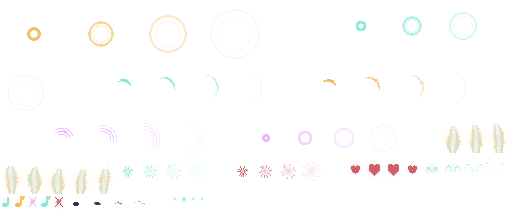
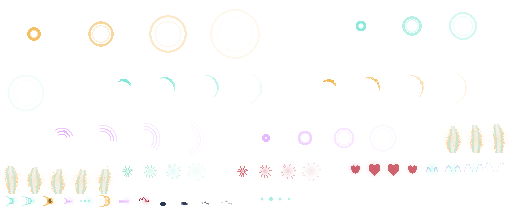
Geschosse sind Schwingung, keine Notenschrift
Ein Notenkopf mit Hals ist ein Schriftzeichen - er fliegt durchs Bild
wie aus einem Lehrbuch gefallen. Was jetzt fliegt, ist ein Stoss
Klang: ein heller Kern und hinter ihm die Wellenfronten, die er durch
die Luft schiebt. Jeder Kern schiebt anders: die Stimmgabel einen
Doppelpuls, die Leier drei feine Fronten, die Trommel eine Druckkugel
mit dunklem Kern, die Floete einen Nadelstich, das Metronom drei
Schlaege in Reihe, die Glocke einen weiten Hall fast ohne Kern, die
Orgelpfeife einen geraden Strahl, die Dissonanz einen gezackten
Splitter. Das ist der erste Schritt der Trennung vom Musik-Thema hin
zu Rhythmus und Schwingung.

Dabei kam ein stiller Fehler ans Licht: es gab nur fuenf Bilder fuer
acht Absender. Metronom, Glocke und Orgelpfeife schossen mit dem Bild,
das zufaellig im Knoten steckte - also mit der Leier.

Und die erste echte Faehigkeits-Nische (#7): hoch unter dem Hallendach
der Lichtung haengt ein Balken mit zwei Kristallen, den man vom Sims
aus SIEHT und ohne Fluegelschlag nicht erreicht. Sieben Kacheln ueber
dem Absatz - ein Sprung schafft vier, erst der Doppelsprung die
Differenz. Man merkt sich die Stelle; der Raum sagt einem nichts.

Claude-Session: https://claude.ai/code/session_01C5Hnci6a37xBV4pyPzPzMs

diff --git a/Tools/gen_world.py b/Tools/gen_world.py
@@ -1227,23 +1227,95 @@ def fx_klinge(frame: int, frames: int, art: str) -> Canvas:
     return c
 
 
-def fx_note(kind: int, tint) -> Canvas:
-    """Notenkopf als Geschoss - der sichtbare Ton."""
-    c = Canvas(12, 14)
-    if kind == 0:      # Viertelnote
-        c.ellipse(4, 10, 3.2, 2.4, tint)
-        c.rect(6, 2, 2, 8, mix(tint, P.WARM, 0.25))
-        c.set(2, 9, mix(tint, (255, 255, 255, 255), 0.5))
-    elif kind == 1:    # Achtelnote mit Faehnchen
-        c.ellipse(4, 10, 3.0, 2.2, tint)
-        c.rect(6, 1, 2, 9, mix(tint, P.WARM, 0.25))
-        for i in range(4):
-            c.rect(8, 1 + i, 3 - i // 2, 1, mix(tint, P.WARM, 0.4))
-    else:              # Pausenzeichen / dissonanter Splitter
-        c.line(2, 2, 9, 11, tint)
-        c.line(9, 2, 2, 11, tint)
-        c.ellipse(5.5, 6.5, 2, 2, mix(tint, P.WARM, 0.4))
-    c.glow(5, 8, 8, (tint[0], tint[1], tint[2], 60))
+def fx_puls(art: str, tint) -> Canvas:
+    """
+    Geschosse als Schwingung, nicht als Notenschrift.
+
+    Ein Notenkopf mit Hals ist ein Schriftzeichen - er fliegt durchs
+    Bild wie aus einem Lehrbuch gefallen. Was hier fliegt, ist ein
+    Stoss Klang: ein heller Kern, und hinter ihm die Wellenfronten,
+    die er durch die Luft schiebt. Jeder Kern schiebt anders - das
+    ist derselbe Unterschied wie zwischen ihren Klaengen.
+
+    Alle Bilder zeigen den Flug nach RECHTS; das Spiel dreht sie in
+    Flugrichtung.
+    """
+    c = Canvas(18, 12)
+    cx, cy = 12, 6
+    hell = mix(tint, (255, 255, 255, 255), 0.55)
+
+    def bogen(mx: float, r: float, deck: int, dick: float = 1.0) -> None:
+        # Eine Wellenfront: ein nach hinten offener Bogen.
+        for k in range(22):
+            a = math.pi * 0.42 + k / 21 * math.pi * 1.16
+            x = mx + math.cos(a + math.pi) * r * 0.8
+            y = cy + math.sin(a + math.pi) * r
+            for d in range(int(dick)):
+                c.blend(int(x) - d, int(y), (tint[0], tint[1], tint[2], deck))
+
+    if art == "stimmgabel":
+        # Zwei Zinken: ein Doppelpuls, eng und sauber.
+        c.ellipse(cx, cy - 1.5, 1.4, 1.1, hell)
+        c.ellipse(cx, cy + 1.5, 1.4, 1.1, hell)
+        bogen(cx - 3, 3.0, 150)
+        bogen(cx - 6, 4.2, 80)
+    elif art == "leier":
+        # Ein Schimmerkern mit drei feinen Fronten.
+        c.ellipse(cx, cy, 1.8, 1.5, hell)
+        c.ellipse(cx, cy, 0.9, 0.8, (255, 255, 255, 255))
+        bogen(cx - 3, 2.6, 170)
+        bogen(cx - 6, 3.6, 110)
+        bogen(cx - 9, 4.6, 60)
+    elif art == "trommel":
+        # Eine Druckkugel: fetter Ring, dunkler Kern, eine schwere Front.
+        c.ellipse(cx - 1, cy, 3.4, 3.0, tint)
+        c.ellipse(cx - 1, cy, 1.9, 1.6, mix(tint, P.INK, 0.55))
+        c.ellipse(cx + 1, cy - 1, 1.0, 0.8, hell)
+        bogen(cx - 6, 4.4, 130, 2.0)
+    elif art == "floete":
+        # Ein Nadelstich: schmaler Pfeil, kaum Schweif.
+        for i in range(7):
+            t = i / 6
+            c.set(cx + 2 - i, cy, mix(hell, tint, t))
+            if i > 2:
+                c.blend(cx + 2 - i, cy - 1, (tint[0], tint[1], tint[2], 120))
+                c.blend(cx + 2 - i, cy + 1, (tint[0], tint[1], tint[2], 120))
+        c.set(cx + 3, cy, (255, 255, 255, 255))
+        bogen(cx - 5, 2.2, 100)
+    elif art == "metronom":
+        # Der Takt: drei Schlaege in Reihe, gleich weit auseinander.
+        for k, mx in enumerate((cx, cx - 4, cx - 8)):
+            deck = 255 - k * 70
+            c.ellipse(mx, cy, 1.3 - k * 0.15, 1.2 - k * 0.15,
+                      (hell[0], hell[1], hell[2], deck) if k == 0 else
+                      (tint[0], tint[1], tint[2], deck))
+    elif art == "glocke":
+        # Ein weiter Hall: zwei grosse Fronten, fast kein Kern.
+        c.ellipse(cx, cy, 1.2, 1.0, hell)
+        bogen(cx - 2, 4.6, 150, 2.0)
+        bogen(cx - 6, 5.6, 90, 2.0)
+    elif art == "orgelpfeife":
+        # Ein stehender Strahl: ein Stueck gerader Ton.
+        for i in range(11):
+            t = i / 10
+            col = mix(hell, tint, t)
+            c.set(cx + 2 - i, cy, col)
+            c.blend(cx + 2 - i, cy - 1, (col[0], col[1], col[2], 160))
+            c.blend(cx + 2 - i, cy + 1, (col[0], col[1], col[2], 160))
+        c.rect(cx + 2, cy - 1, 1, 3, (255, 255, 255, 255))
+    else:
+        # Dissonanz: ein gezackter Splitter, nichts daran schwingt sauber.
+        px, py = cx - 8, cy - 3
+        for i in range(10):
+            px += 1
+            py += (1 if hash01(i, 3) > 0.5 else -1)
+            py = max(1, min(10, py))
+            c.set(px, py, tint)
+            if i % 3 == 0:
+                c.set(px, py + 1, mix(tint, P.INK, 0.4))
+        c.ellipse(cx, cy, 1.4, 1.2, mix(tint, (255, 255, 255, 255), 0.35))
+
+    c.glow(cx, cy, 7, (tint[0], tint[1], tint[2], 70))
     return c
 
 
@@ -1725,11 +1797,15 @@ def build() -> None:
     for art in ("schlicht", "gezackt", "glas"):
         fx.add_sequence(f"klinge_{art}", [fx_klinge(f, 5, art) for f in range(5)],
                         pivot=(0.5, 0.5), fps=26)
-    for i, (name, tint) in enumerate((("note_leier", P.GLOW), ("note_trommel", P.GOLD),
-                                      ("note_floete", P.BLOOM))):
-        fx.add(name, fx_note(i, tint), pivot=(0.5, 0.5))
-    fx.add("note_stimmgabel", fx_note(1, P.TRIM), pivot=(0.5, 0.5))
-    fx.add("note_dissonanz", fx_note(2, P.ROT), pivot=(0.5, 0.5))
+    # Ein Puls je Kern. Vorher gab es nur fuenf Bilder fuer acht
+    # Absender: Metronom, Glocke und Orgelpfeife schossen mit dem
+    # Bild, das zufaellig im Knoten steckte - also mit der Leier.
+    for name, tint in (("stimmgabel", P.TRIM), ("leier", P.GLOW),
+                       ("trommel", P.GOLD), ("floete", P.BLOOM),
+                       ("metronom", P.GLOW), ("glocke", P.GOLD),
+                       ("orgelpfeife", P.BLOOM)):
+        fx.add(f"note_{name}", fx_puls(name, tint), pivot=(0.5, 0.5))
+    fx.add("note_dissonanz", fx_puls("dissonanz", P.ROT), pivot=(0.5, 0.5))
     fx.add_sequence("feather", [fx_feather(f) for f in range(4)], pivot=(0.5, 0.5), fps=18)
     fx.add_sequence("heartbeat", [fx_heart(f) for f in range(4)], pivot=(0.5, 0.5), fps=18)
     fx.add_sequence("burst_glow", [fx_burst(f, P.GLOW) for f in range(5)], pivot=(0.5, 0.5), fps=24)

diff --git a/Tools/gen_levels.py b/Tools/gen_levels.py
@@ -1046,6 +1046,15 @@ def room_A2() -> Room:
     # Und eine Stelle, an der man springen muss statt zu laufen.
     r.dornengrube(33, 6, 3, boden)
 
+    # Hoch unter dem Hallendach: ein Balken, den man vom Sims aus sieht
+    # und ohne Fluegelschlag nicht erreicht. Das ist die ganze Schule
+    # des Genres - man merkt sich die Stelle, nicht der Raum sagt sie
+    # einem. Sieben Kacheln ueber dem Absatz: ein Sprung schafft vier,
+    # erst der Doppelsprung die Differenz.
+    r.balken(23, 13, 4)
+    r.crystal_on(24, 12, 2)
+    r.crystal_on(26, 12, 1)
+
     r.side_door("L", "left", "A1", "R", hint=6)
     r.side_door("R", "right", "A3", "L", hint=6)
     r.shaft_door("U", 51, 5, "up", "B1", "N", requires="fluegelschlag")
